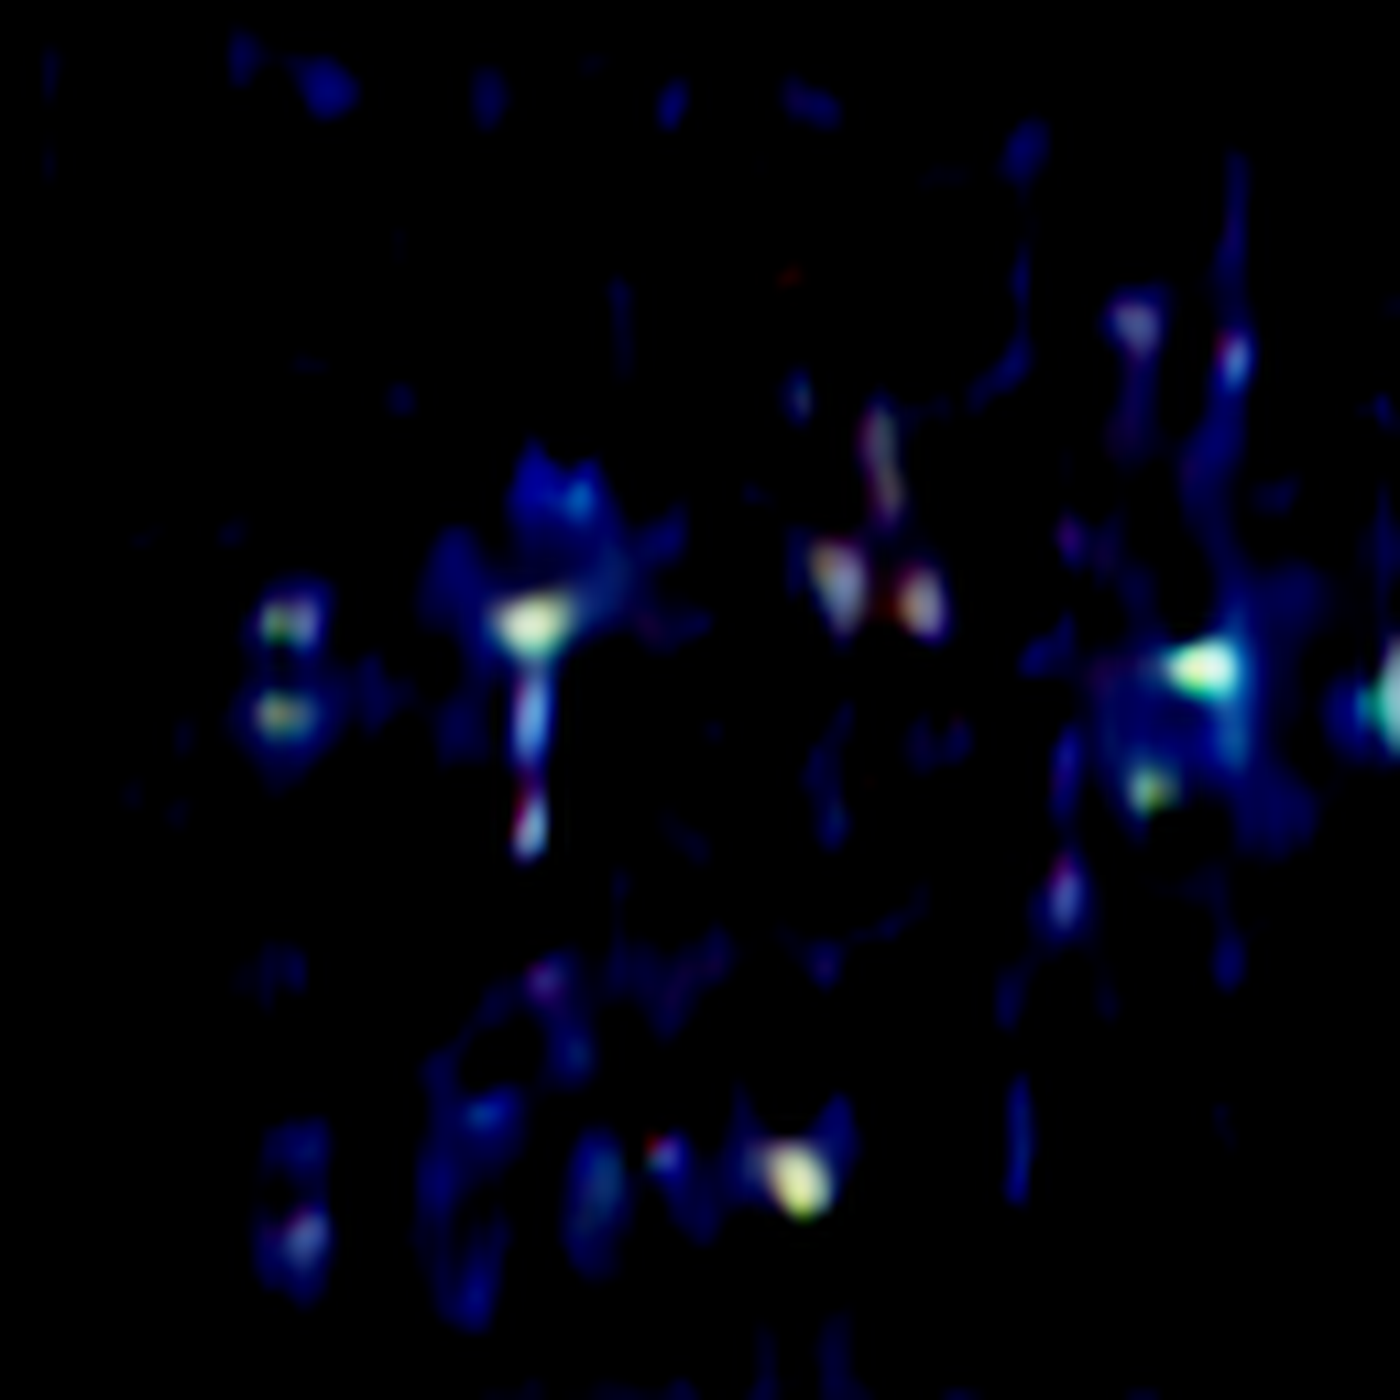
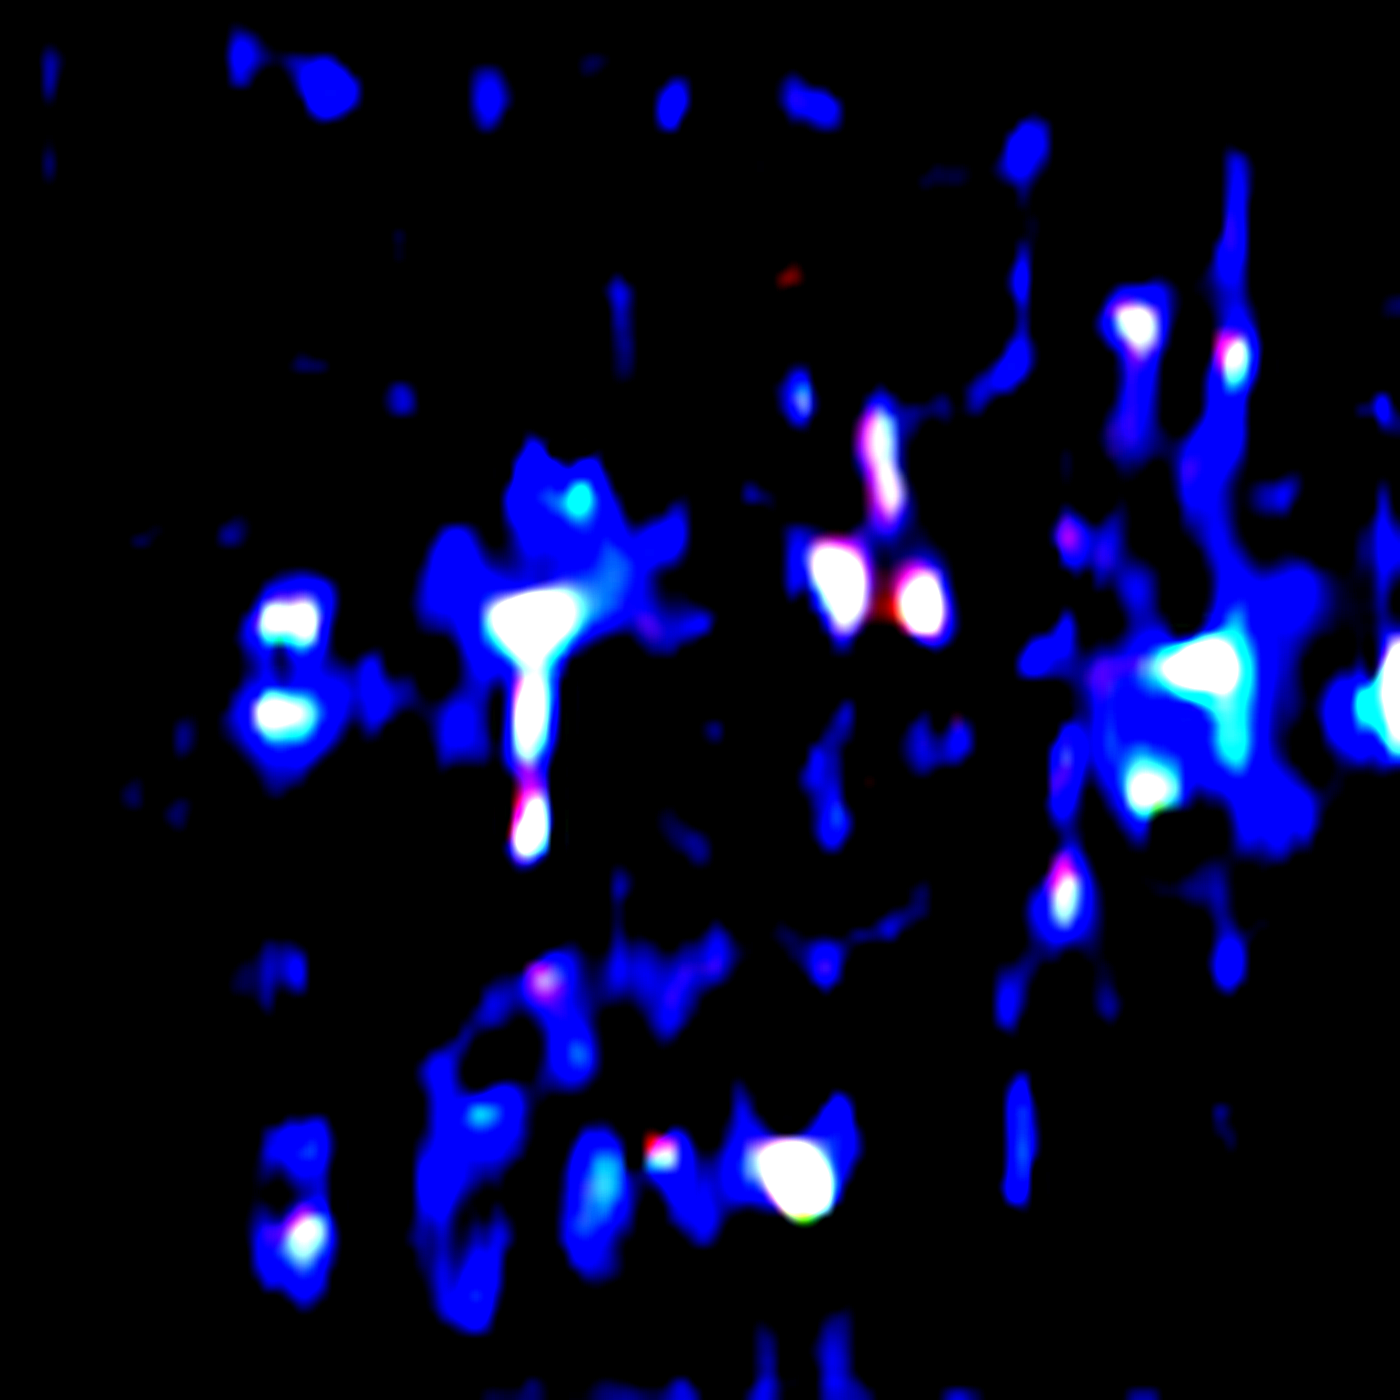
small

diff --git a/scale_results.py b/scale_results.py
@@ -1,14 +1,15 @@
-from PIL import Image
+from PIL import Image, ImageEnhance
+import numpy as np
+import matplotlib.pyplot as plt 
 import os 
 
 def scale(filename, outfilename):
 	img = Image.open(filename)
 	img = img.resize((1400,1400), Image.ANTIALIAS)
-	img.save('scaled_results/' + outfilename)
-	return img
-
+	contrast = ImageEnhance.Contrast(img) # enhance contrast
+	contrast.enhance(5).save('scaled_results/' + outfilename)
 if __name__ == '__main__':
-	os.chdir('images/lr-0002') # change lr-0002 to whichever trial run you're on
+	os.chdir('images/lr-001') # change lr-00XXX to whichever trial run you're on
 	for imgname in os.listdir('results/'):
 		scaled = scale('results/' + imgname, imgname.strip('.png') + '_scaled.png')
 		print("Scaled: ", imgname)
